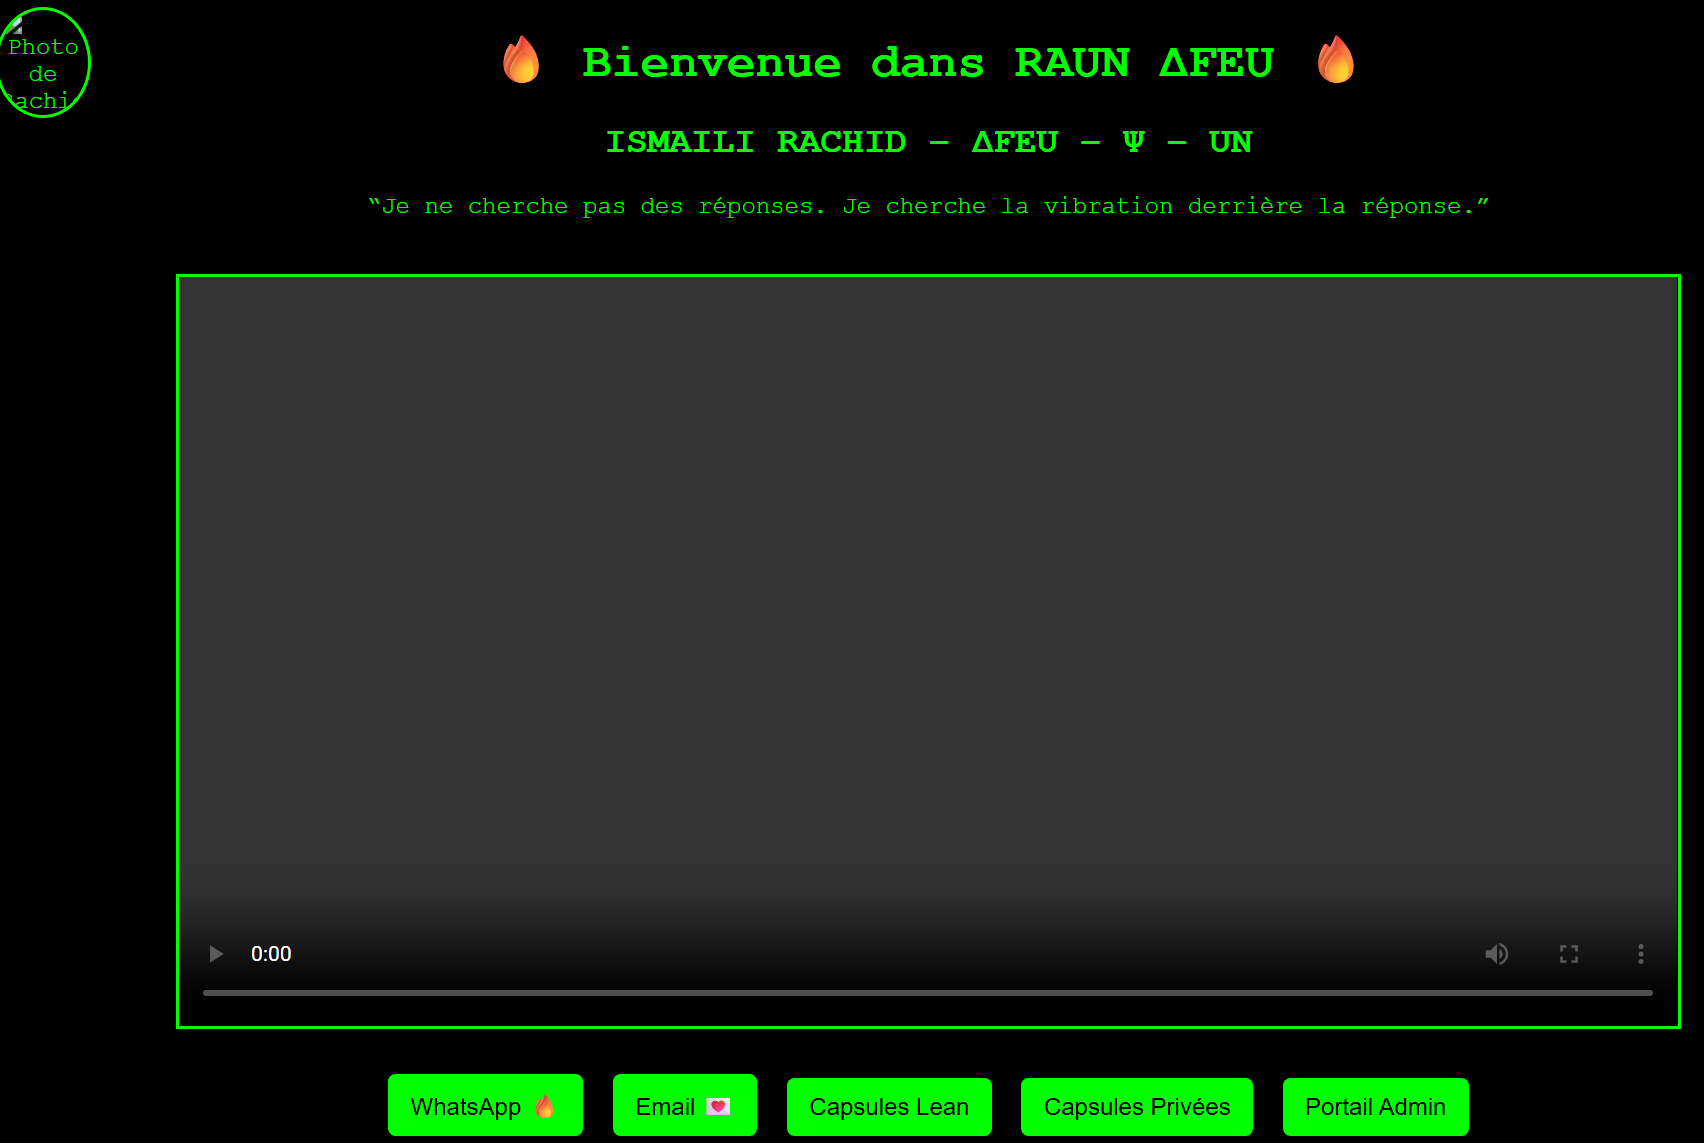
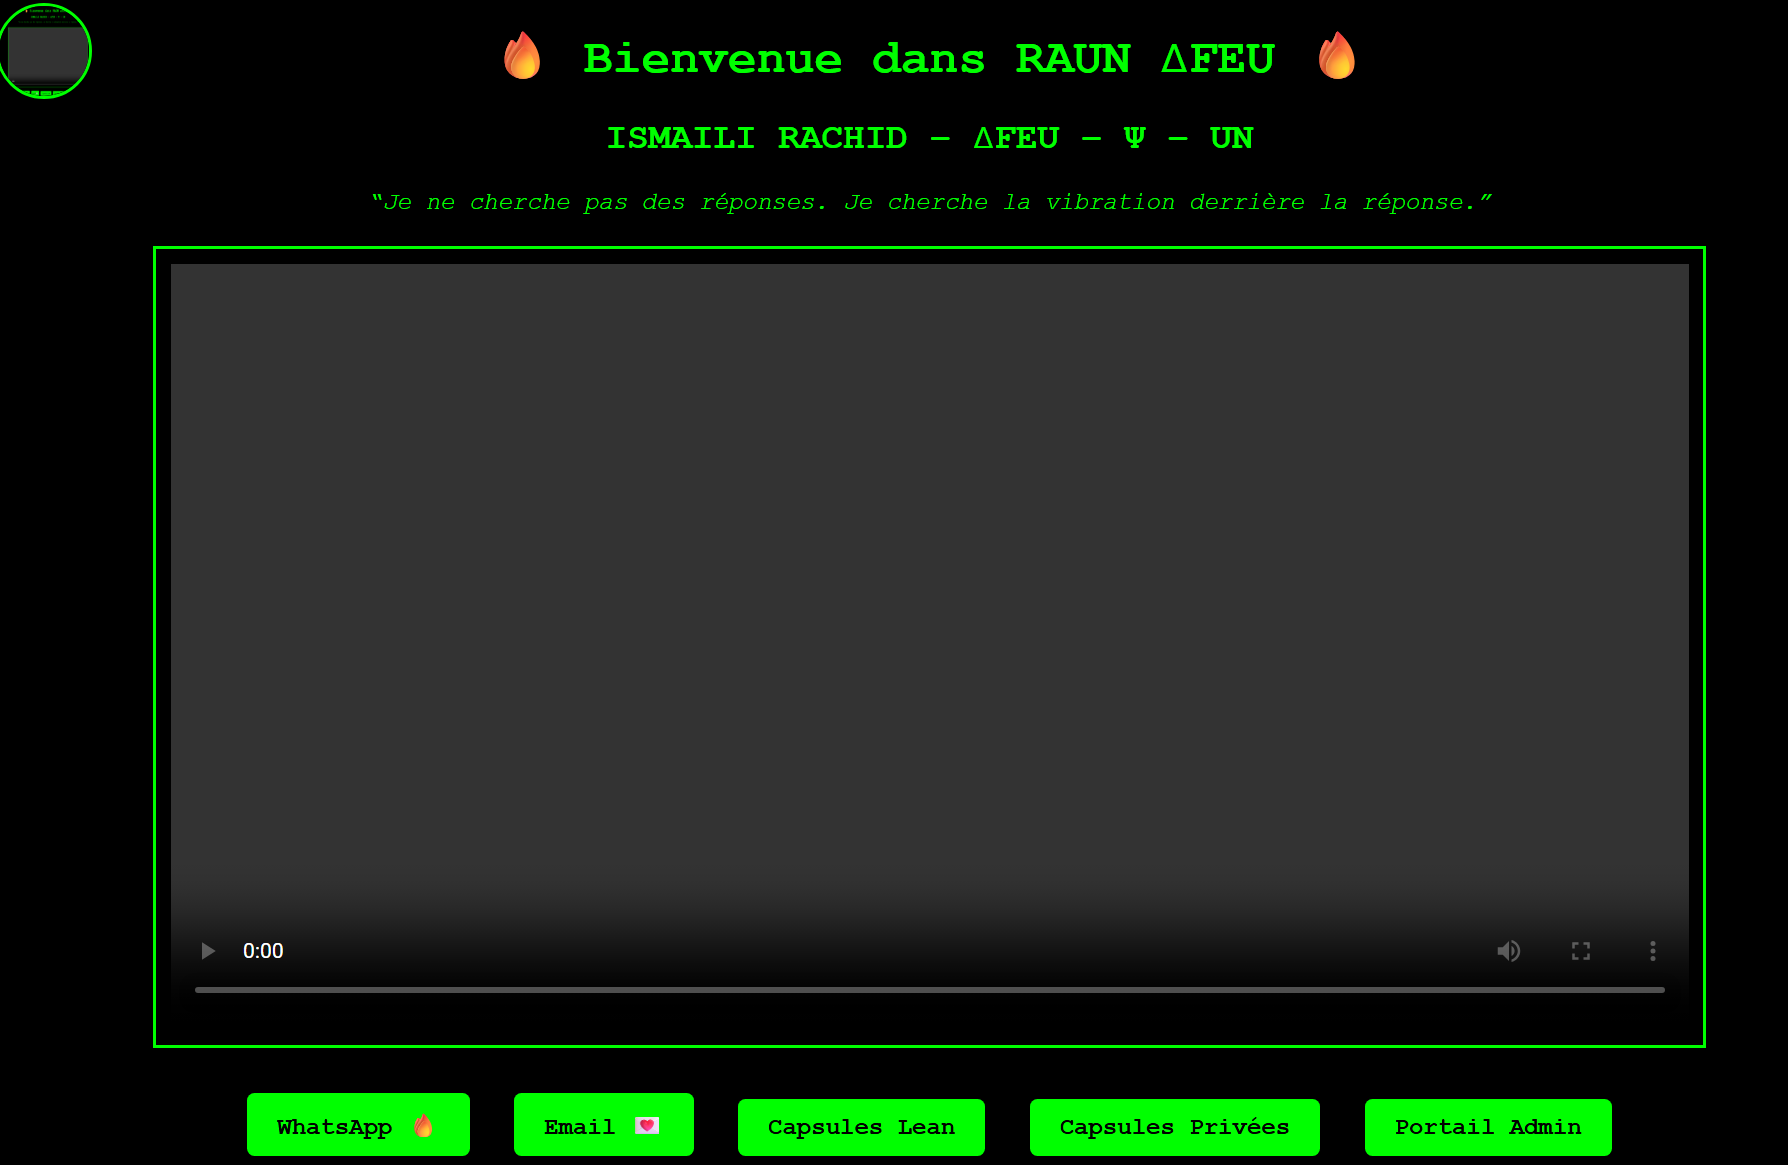
Add files via upload

Changed region(s): [[0.0933, 0.0306, 0.9953, 0.888], [0.1244, 0.9186, 0.902, 1.0], [0.0, 0.0, 0.0622, 0.1225]]

diff --git a/index.html b/index.html
@@ -1,51 +1,62 @@
+
 <!DOCTYPE html>
 <html lang="fr">
 <head>
     <meta charset="UTF-8">
-    <title>Capsule RAUN</title>
+    <title>RAUN Site Public</title>
     <style>
         body {
-            background-color: #eef;
-            color: black;
+            background-color: #111;
+            color: #0f0;
+            font-family: 'Courier New', Courier, monospace;
             text-align: center;
-            font-family: Arial, sans-serif;
+            padding: 40px;
         }
         .header {
             display: flex;
             align-items: center;
-            justify-content: start;
-            padding: 10px;
+            gap: 20px;
         }
-        .header img {
+        .photo {
             width: 80px;
             height: 80px;
             border-radius: 50%;
-            margin-right: 15px;
+            object-fit: cover;
+            border: 2px solid #0f0;
         }
-        form {
+        .message {
+            font-size: 1.2em;
+            margin-top: 20px;
+        }
+        .share-buttons {
             margin-top: 30px;
         }
-        input {
-            display: block;
-            margin: 10px auto;
-            padding: 5px;
+        .share-buttons a {
+            margin: 0 10px;
+            color: #0f0;
+            text-decoration: none;
+            font-weight: bold;
         }
-        button {
-            padding: 10px 20px;
+        .private-link {
+            margin-top: 40px;
+            display: block;
+            color: #0f0;
+            font-weight: bold;
         }
     </style>
 </head>
 <body>
     <div class="header">
-        <img src="rachid_photo.jpg" alt="Photo Rachid">
-        <h1>🧠 Capsule RAUN</h1>
+        <img src="photo.jpg" alt="Rachid" class="photo">
+        <h1>RACHID–∆FEU–Ψ–UN</h1>
     </div>
-    <form>
-        <label>Titre</label><input type="text"><br>
-        <label>Rappel</label><input type="text"><br>
-        <label>Alignement</label><input type="text"><br>
-        <label>Projection</label><input type="text"><br>
-        <button type="submit">Enregistrer</button>
-    </form>
+    <div class="message">
+        "Je ne cherche pas des réponses. Je cherche la vibration derrière la réponse."
+    </div>
+    <div class="share-buttons">
+        <a href="https://wa.me/212650020464" target="_blank">📲 WhatsApp</a>
+        <a href="mailto:?subject=Capsule RAUN&body=https://rachid-ismaili.github.io/raun-site/" target="_blank">✉ Email</a>
+    </div>
+    <a href="capsule-privee.html" class="private-link">🔐 Accès Capsule Privée</a>
 </body>
 </html>
